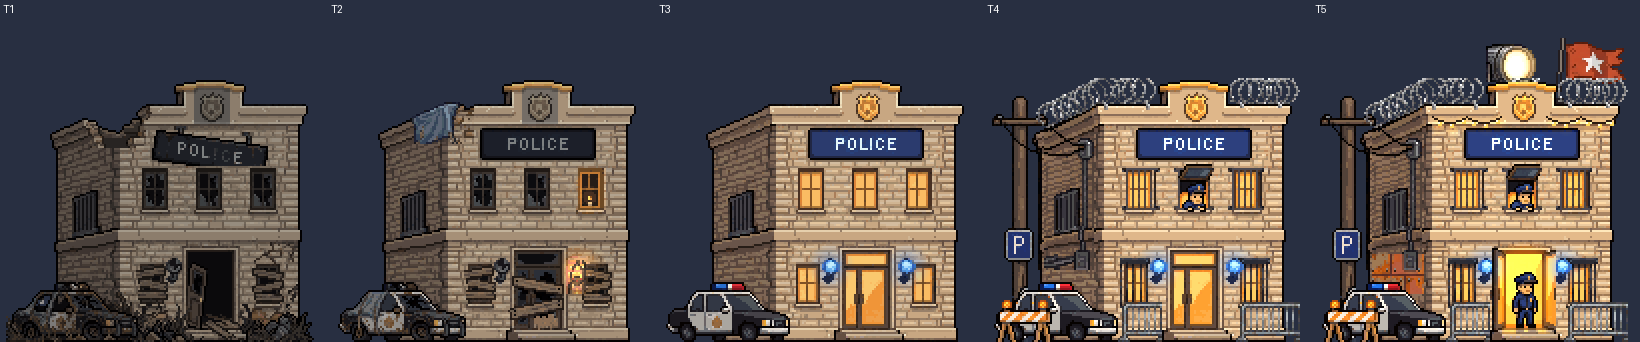
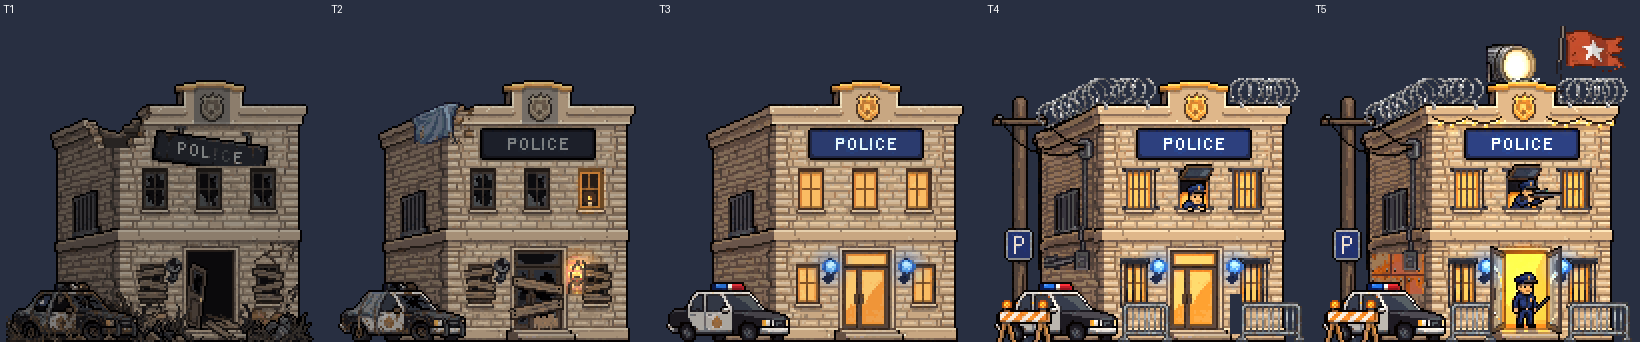
M5: Village 2.0 Police station three-quarter art T1-T5 (Jeremy's T4/T5 clean-up; art + docs, not wired)

diff --git a/docs/ART_STYLE.md b/docs/ART_STYLE.md
@@ -361,11 +361,11 @@ T4), so size, angle and spots stay identical. Ladder as built:
   siding (code); brightest. Jeremy cleaned the wire.
 
 ### Police station (`defense`, front-row Square 160x160) -- ALL FIVE TIERS DONE 2026-11-14 (art only, NOT wired)
-Replaces the fieldstone Jailhouse look with a small-town POLICE STATION (Jeremy 2026-11-14; card name to become "Police station" when wired; kind, stat and star rewards unchanged). Pale tan brick, cream cornice, raised parapet with a gold police badge (identifier, same spot every tier), dark-navy POLICE sign high on the front, three upstairs + two downstairs windows, glass double door with a BLUE GLOBE LAMP each side (animation spots), barred holding-cell window on the shaded left wall, black-and-white patrol car at the left corner. Finals: `Assets/Village/_source/police-3q/police_t1..t5_final_160x160.png` (+ `police_layout_guide_v2_128_whitebg.png`, `police_ladder_t1_t5_2x.png`); also in Jeremy's PixelLab gallery as "Deadline Police Station T1..T5 FINAL" (Jeremy will do a final clean-up in PixelLab). Visible art x 3..157 over all tiers (T5 flag reaches row 2); every tier's lowest row is 159.
+Replaces the fieldstone Jailhouse look with a small-town POLICE STATION (Jeremy 2026-11-14; card name to become "Police station" when wired; kind, stat and star rewards unchanged). Pale tan brick, cream cornice, raised parapet with a gold police badge (identifier, same spot every tier), dark-navy POLICE sign high on the front, three upstairs + two downstairs windows, glass double door with a BLUE GLOBE LAMP each side (animation spots), barred holding-cell window on the shaded left wall, black-and-white patrol car at the left corner. Finals: `Assets/Village/_source/police-3q/police_t1..t5_final_160x160.png` (+ `police_layout_guide_v2_128_whitebg.png`, `police_ladder_t1_t5_2x.png`); also in Jeremy's PixelLab gallery as "Deadline Police Station T1..T5 FINAL" (Jeremy will do a final clean-up in PixelLab). Visible art x 3..159 over all tiers after Jeremy's PixelLab clean-up of T4/T5 (2026-11-14; T4/T5 now reach the canvas's right edge, 0 px margin, rule asks 2 px -- trim or accept when wiring); T5 flag reaches row 2; every tier's lowest row is 159. T4/T5 in `police-3q/` ARE Jeremy's cleaned versions.
 - **How T3 was made:** first batch came out seen from ABOVE (roof visible) with a short door (~21x31) -- Jeremy caught both. Fix: a v2 layout guide with an EYE-LEVEL flat front rectangle + narrow receding left wall, and the Gym T3 as a reference with the note "copy this gym's eye-level camera angle EXACTLY ... its door height". Pro generate at 128x128 (2 seeds), Jeremy's pick (#4) -> `resize` 128->160 with the PICK as `color_image` (without it the resize turned every light off). Door ~44 tall like the Gym's. Blue lamp light on the bricks added in code (light painted on the wall is art; a pulsing glow stays code).
 - **Ladder as built** (each an edit of its neighbour; colour passes LAST): **T1** collapsed roof corner, crooked sign with a letter missing, smashed dark windows, door hanging open, bare lamp brackets, weeds/rubble, burned-out car on no wheels; no light. **T2** squatters: boarded door + lower windows, two broken upstairs windows, one candle-lit window, unlit greyed sign, dull badge, rusted car, blue tarp over a broken roof corner, an oil lantern on the nail where the right blue lamp was. **T3** see above. **T4** bars on four windows, the middle upstairs window OPEN with an officer leaning out (no bars: Jeremy), razor wire along the whole roof edge, grey steel crowd barriers both sides of the door, a striped sawhorse with two amber lamps in front of the car (no flash lines: Jeremy may animate them), and the utility POLE + blue P sign + wall wiring / meter box copied from an earlier PixelLab take (side wall transplanted with dy 19 so the roof edges meet). **T5** shared survivor flag (copied pixel-for-pixel from the Gym T5) on a taller pole right of the parapet (raised 6 px so it clears the wire; at the corner it would leave the 160 canvas), the Gym T5 spotlight on the parapet, string lights under the cornice (faint on the pale brick), door wide open and lit with an officer holding a baton, the window officer aiming a scoped rifle, rusty plates on the lower side wall.
 - **Brightness check:** whole-picture averages T1 70 / T2 91 / T3 121; from T4 on the dark pole and side wall pull the whole average down, so the ladder is measured on the building FRONT (x>=58, above row 140): T3 137.7 / T4 140.4 / T5 140.6, saturation rising.
-- **PLACEMENT NOTE for wiring (Jeremy 2026-11-14):** the Gym's walls stop at row 152 (its garage light spill fills 153-159), the police station's walls stand on row 159. Raise the police station ~7 px to line up the bases, ~10-12 px to make it sit slightly further back (preferred over lowering the wired Gym). Keep the art bottom-anchored; do it with the placement number.
+- **PLACEMENT NOTE for wiring (Jeremy 2026-11-14):** the Gym's walls stop at row 152 (its garage light spill fills 153-159), the police station's walls stand on row 159. Raise the police station ~7 px to line up the bases, ~10-12 px to make it sit slightly further back (preferred over lowering the wired Gym). **Use the further-back end (10-12 px or a bit more):** its officers read smaller than the Gym T4/T5 athletes, and sitting further back makes that read as depth (Jeremy 2026-11-14). Keep the art bottom-anchored; do it with the placement number.
 
 ### PixelLab API workflow (learned on the Gym, 2026-11-14) -- use for every Village 2.0 building
 - **Access:** Jeremy's API key lives only in the Claude session workspace (never in the repo); `api.pixellab.ai` is on the allowed-domains list. Check

diff --git a/sessions/HANDOFF.md b/sessions/HANDOFF.md
@@ -13,8 +13,8 @@ Newest entry at TOP. Every session appends one entry before ending (use `/end-se
 
 ## 2026-11-14 — Police station three-quarter art T1-T5 (Opus 5.5, Claude app, PixelLab API, no code)
 **Did:** Redrew the Jailhouse (`defense`) as a POLICE STATION, front-row Square 160x160, all five tiers approved by Jeremy: `Assets/Village/_source/police-3q/police_t1..t5_final_160x160.png` (+ layout guide v2, `police_ladder_t1_t5_2x.png`), also in his PixelLab gallery as "Deadline Police Station T1..T5 FINAL". Docs: ART_STYLE "Police station" section + new API lessons, DECISIONS 2026-11-14 (Police station art), ROADMAP Village 2.0 item checked. ~370 PixelLab generations used (3,352 of 5,000 left).
-**State:** Art + docs only, NO code changed, so tests were not run (nothing they cover changed). The game still shows the old fieldstone Jailhouse. device_bash still FAILS on Jeremy's PC; files were written through stage/commit. Jeremy plans a final pixel clean-up of T4/T5 in PixelLab -- if he does, re-export those into `police-3q/` before wiring.
-**Next:** wire the Police station (Sonnet): `Assets/Village/defense_t1..t5.png` = the 160x160 finals (keep the old 128x128 files in `_source/americana-jail/`), canvas 160x160 for `defense`, `VILLAGE_ART_X.defense` [3,157] (re-measure after Jeremy's clean-up; the test will say), raise its placement ~7-12 px (Jeremy: bases line up with the Gym at +7, a little further back at 10-12), card name "Police station" (+ any wording tests), sw bump. OR draw the next building (Command Post, front Square).
+**State:** Art + docs only, NO code changed, so tests were not run (nothing they cover changed). The game still shows the old fieldstone Jailhouse. device_bash still FAILS on Jeremy's PC; files were written through stage/commit. Jeremy cleaned up T4/T5 in PixelLab; his versions are now the finals in `police-3q/` (they reach the canvas's right edge, x 159).
+**Next:** wire the Police station (Sonnet): `Assets/Village/defense_t1..t5.png` = the 160x160 finals (keep the old 128x128 files in `_source/americana-jail/`), canvas 160x160 for `defense`, `VILLAGE_ART_X.defense` [3,159] (measured after Jeremy's clean-up; right edge has 0 px margin vs the 2 px rule), raise its placement ~10-12 px or a bit more (Jeremy: bases line up with the Gym at +7; go further back because the officers read smaller than the Gym athletes), card name "Police station" (+ any wording tests), sw bump. OR draw the next building (Command Post, front Square).
 **Watch out:** the T5 flag reaches canvas row 2 and sits right of the parapet (no room at the corner of a 160 canvas). T4/T5 side wall + pole are transplanted from a different PixelLab take (a seam can show at x 55-57). From T4 the whole-picture brightness drops (pole + dark side wall); the ladder is judged on the building front. Do colour passes LAST; inpaint white = untouched (keep base pixels, do not key them on the wall).
 
 ## 2026-11-14 — Wire the Gym three-quarter art T1-T5 (Sonnet 5.5, Claude app)
